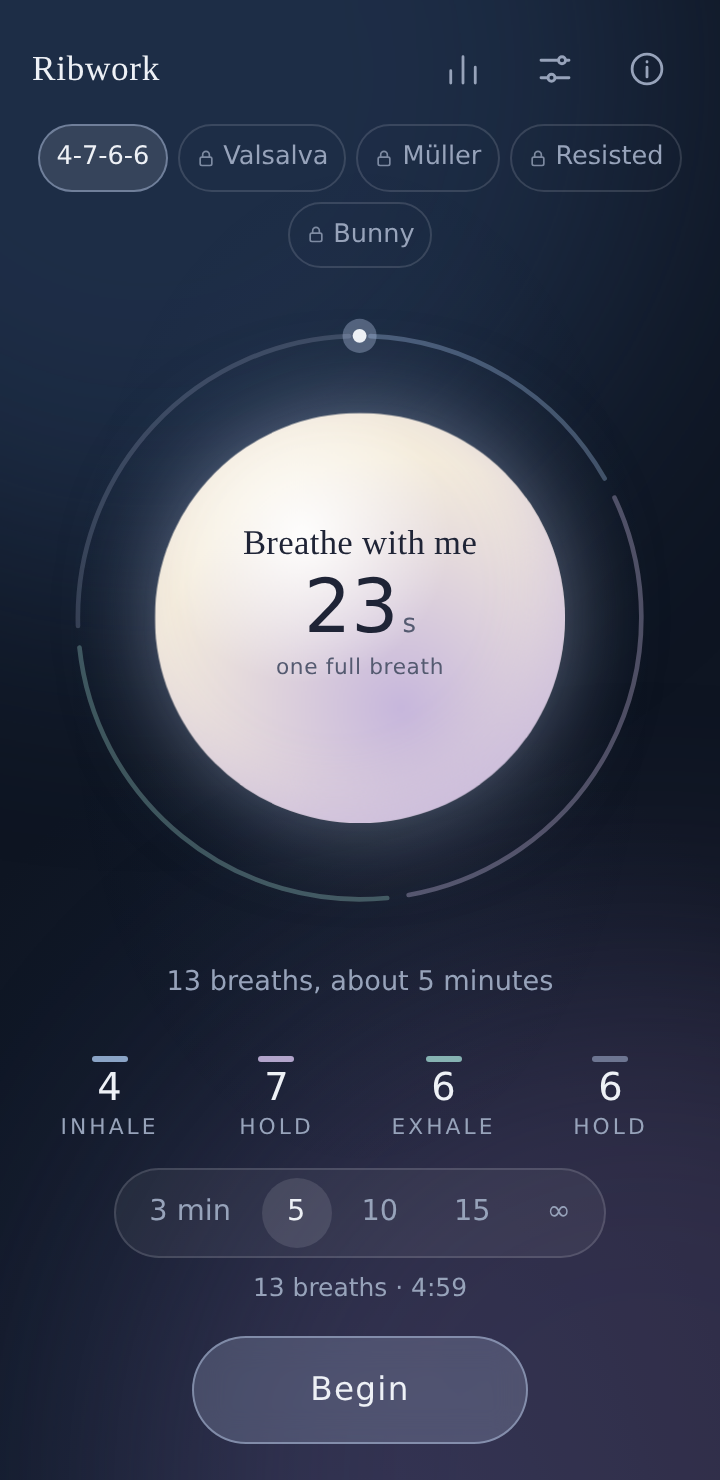
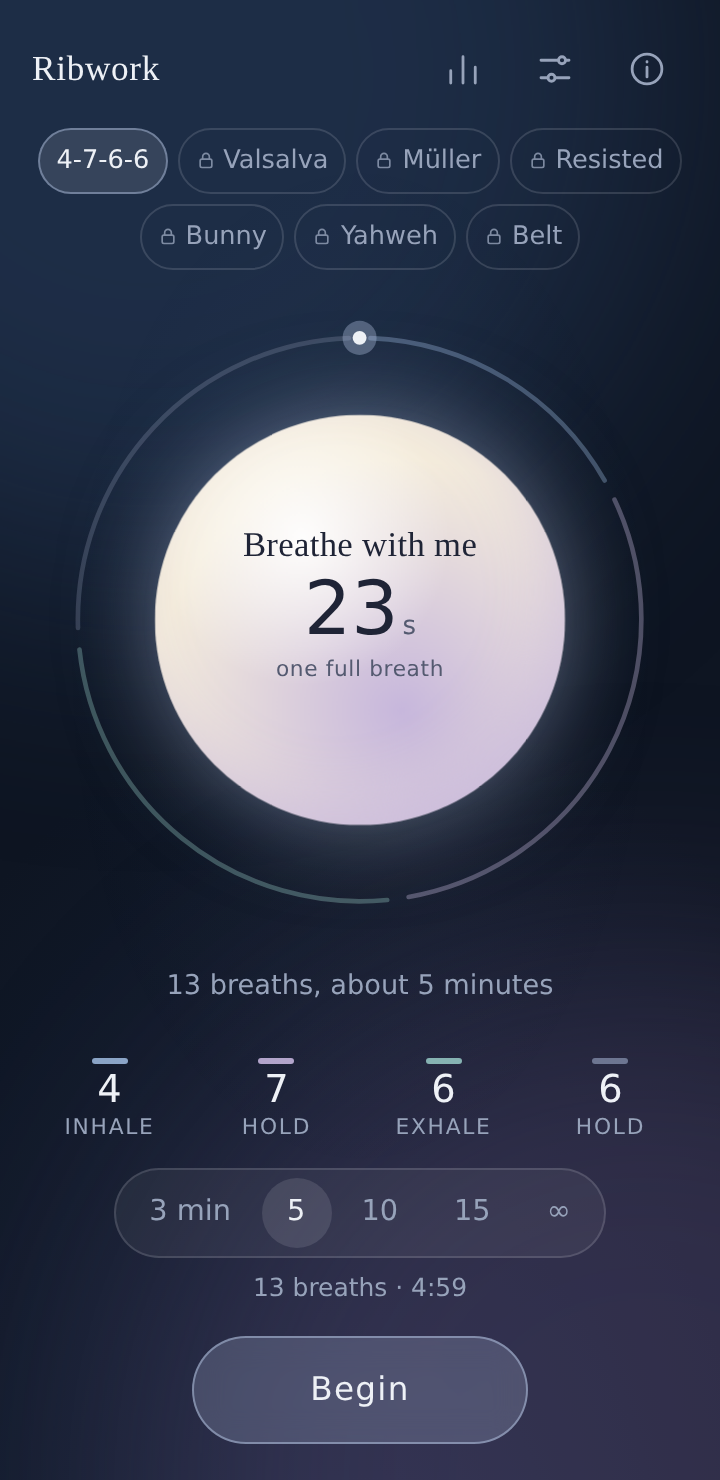
Add breath belt training to the full app
A belt snug around the lower ribs, then four moves of three breaths
each (belt breaths, arm raises, alternating twists, alternating side
reaches), 1-5 rounds. The ring and legend are coloured by move and the
meta line names the current move. Legend labels centre and tighten so
four moves fit on short phones.

Claude-Session: https://claude.ai/code/session_01AU9giQamNVHAvDZbgnuzeV

diff --git a/breathe/index.html b/breathe/index.html
@@ -201,7 +201,8 @@
     color: var(--muted);
   }
   .legend li b { font-weight: 500; font-size: 1.2rem; color: var(--ink); font-variant-numeric: tabular-nums; line-height: 1.1; }
-  .legend li span { font-size: 0.68rem; letter-spacing: 0.14em; text-transform: uppercase; }
+  .legend li span { font-size: 0.68rem; letter-spacing: 0.14em; text-transform: uppercase; text-align: center; line-height: 1.3; }
+  .legend[style*="--n: 4"] li span { letter-spacing: 0.08em; }
   .legend li i { width: 18px; height: 3px; border-radius: 2px; opacity: .8; }
   .legend li i { background: var(--c); }
   .legend li.on { background: var(--glass); color: var(--ink); }
@@ -369,10 +370,11 @@
     .ex-btn { padding: 6px 8px; font-size: 0.8rem; }
   }
   @media (max-height: 700px) {
-    .legend li { padding: 5px 4px; }
+    .legend li { padding: 3px 4px; }
+    .legend li span { line-height: 1.15; }
     .legend li i { display: none; }
     main { gap: 6px; }
-    .stage { width: min(86vw, 42vh, 420px); }
+    .stage { width: min(86vw, 41vh, 420px); }
   }
   @media (prefers-reduced-motion: reduce) {
     .cloud { animation: none; }
@@ -413,6 +415,7 @@
       <button class="ex-btn" type="button" data-ex="resisted"><svg viewBox="0 0 24 24" fill="none" stroke="currentColor" stroke-width="2" stroke-linecap="round"><rect x="5" y="11" width="14" height="10" rx="2"/><path d="M8 11V8a4 4 0 0 1 8 0v3"/></svg>Resisted</button>
       <button class="ex-btn" type="button" data-ex="bunny"><svg viewBox="0 0 24 24" fill="none" stroke="currentColor" stroke-width="2" stroke-linecap="round"><rect x="5" y="11" width="14" height="10" rx="2"/><path d="M8 11V8a4 4 0 0 1 8 0v3"/></svg>Bunny</button>
       <button class="ex-btn" type="button" data-ex="yahweh"><svg viewBox="0 0 24 24" fill="none" stroke="currentColor" stroke-width="2" stroke-linecap="round"><rect x="5" y="11" width="14" height="10" rx="2"/><path d="M8 11V8a4 4 0 0 1 8 0v3"/></svg>Yahweh</button>
+      <button class="ex-btn" type="button" data-ex="belt"><svg viewBox="0 0 24 24" fill="none" stroke="currentColor" stroke-width="2" stroke-linecap="round"><rect x="5" y="11" width="14" height="10" rx="2"/><path d="M8 11V8a4 4 0 0 1 8 0v3"/></svg>Belt</button>
     </div>
 
     <div class="stage" id="stage" role="button" tabindex="0" aria-label="Start breathing session">
@@ -602,7 +605,7 @@
     <p><kbd>Space</kbd> start or pause · <kbd>Esc</kbd> end · <kbd>S</kbd> settings</p>
 
     <h3>Full app</h3>
-    <p>A one-time unlock adds guided Valsalva and Müller maneuvers, with adjustable effort and recovery times, resisted breathing (pursed-lip, straw, or with a breathing trainer), bunny breathing, and the Yahweh breath prayer. The safety notes for each stay free to read: pick one above and tap <b>i</b>.</p>
+    <p>A one-time unlock adds guided Valsalva and Müller maneuvers, with adjustable effort and recovery times, resisted breathing (pursed-lip, straw, or with a breathing trainer), bunny breathing, the Yahweh breath prayer, and breath belt training. The safety notes for each stay free to read: pick one above and tap <b>i</b>.</p>
 
     <h3>Privacy</h3>
     <p>No account, no ads, no analytics. Everything runs on your device, and your session history stays in this browser. Purchases go through Google Play; the app only learns whether you own the unlock. Once opened, it works offline and can be added to your home screen. <a href="privacy.html" style="color: var(--accent)">Privacy policy</a></p>
@@ -627,6 +630,7 @@
       <li><svg viewBox="0 0 24 24" fill="none" stroke="currentColor" stroke-width="1.8" stroke-linecap="round" stroke-linejoin="round"><path d="M5 12.5l4.5 4.5L19 7.5"/></svg><div><b>Resisted breathing</b><small>Pursed-lip, straw, or a 30-breath set with a breathing trainer</small></div></li>
       <li><svg viewBox="0 0 24 24" fill="none" stroke="currentColor" stroke-width="1.8" stroke-linecap="round" stroke-linejoin="round"><path d="M5 12.5l4.5 4.5L19 7.5"/></svg><div><b>Bunny breathing</b><small>Three quick sniffs in, one long breath out</small></div></li>
       <li><svg viewBox="0 0 24 24" fill="none" stroke="currentColor" stroke-width="1.8" stroke-linecap="round" stroke-linejoin="round"><path d="M5 12.5l4.5 4.5L19 7.5"/></svg><div><b>Yahweh breath prayer</b><small>Breathe in “Yah”, breathe out “weh”, slowly</small></div></li>
+      <li><svg viewBox="0 0 24 24" fill="none" stroke="currentColor" stroke-width="1.8" stroke-linecap="round" stroke-linejoin="round"><path d="M5 12.5l4.5 4.5L19 7.5"/></svg><div><b>Breath belt</b><small>A belt around your ribs, with arm raises, twists and side reaches</small></div></li>
       <li><svg viewBox="0 0 24 24" fill="none" stroke="currentColor" stroke-width="1.8" stroke-linecap="round" stroke-linejoin="round"><path d="M5 12.5l4.5 4.5L19 7.5"/></svg><div><b>Every exercise added later</b><small>Included, at no extra cost</small></div></li>
     </ul>
     <button class="primary" type="button" id="btn-buy">Unlock full app</button>
@@ -832,6 +836,46 @@
       foot: 'This app guides timing only and is not medical advice.',
       ack: "I'll breathe gently and stop if I feel lightheaded.",
     },
+    belt: {
+      name: 'Belt', title: 'breath belt training', tag: 'Belt', unit: ['round', 'rounds'], noAck: true,
+      idle: ['Belt', 'four moves, three breaths each'],
+      lead: { d: 10, word: 'Belt on', hint: 'snug around your lower ribs', say: 'Wrap the belt snugly around your lower ribs.' },
+      doneNote: 'Loosen the belt and take a few easy breaths.',
+      phases: () => {
+        const moves = [
+          { group: 'Belt breaths', breaths: (n) => [
+            { word: 'Breathe in', hint: 'push the sides and back into the belt', say: 'Breathe into the belt' },
+            { word: 'Breathe out', hint: 'keep a little tension in the belt', say: 'Breathe out' }] },
+          { group: 'Arm raises', breaths: (n) => [
+            { word: 'Raise arms', hint: 'breathe into the belt as they rise', say: 'Raise your arms' },
+            { word: 'Lower', hint: 'ribs soften down, belt stays snug', say: 'Lower' }] },
+          { group: 'Twists', breaths: (n) => [
+            { word: 'Breathe in', hint: 'face forward, widen into the belt', say: 'Breathe in' },
+            { word: n % 2 ? 'Twist left' : 'Twist right', hint: 'rotate as you breathe out', say: n % 2 ? 'Twist left' : 'Twist right' }] },
+          { group: 'Side reaches', breaths: (n) => [
+            { word: n % 2 ? 'Reach left' : 'Reach right', hint: `${n % 2 ? 'left' : 'right'} arm up, breathe into those ribs`, say: n % 2 ? 'Reach left' : 'Reach right' },
+            { word: 'Return', hint: 'arm down, back to center', say: 'Return' }] },
+        ];
+        const out = [];
+        moves.forEach((m, g) => {
+          for (let n = 0; n < 3; n++) {
+            const [a, b] = m.breaths(n);
+            out.push({ k: 'in', vis: 'rise', d: 4, label: m.group, group: g, ...a });
+            out.push({ k: 'out', vis: 'fall', d: 6, label: m.group, group: g, ...b });
+          }
+        });
+        return out;
+      },
+      about: `<p>A belt around your lower ribs gives your breath something to push against, so you can feel whether your ribs widen to the sides and back, not just the chest and belly. Moving your arms and trunk while you keep breathing into the belt teaches your ribcage to expand in every position, and keeping gentle tension on the belt as you breathe out trains your midline.</p>
+        <h3>Set up</h3>
+        <ul><li>Use a soft belt, a yoga strap or a resistance band.</li><li>Wrap it around your lower ribs, just below the chest, snug but not tight. You should be able to slide a flat hand under it.</li><li>Stand, or sit tall on a chair without leaning back.</li></ul>
+        <h3>The moves, three breaths each</h3>
+        <ul><li><b>Belt breaths:</b> breathe in and push the sides and back of your ribs into the belt. Breathe out and keep a little tension in it.</li><li><b>Arm raises:</b> raise both arms overhead as you breathe in, lower them as you breathe out.</li><li><b>Twists:</b> breathe in facing forward, breathe out as you rotate, alternating right and left.</li><li><b>Side reaches:</b> reach one arm up and breathe into those ribs, return as you breathe out. Alternate sides.</li></ul>`,
+      warn: `<h3>Go easy</h3>
+      <p>Keep the belt snug, never tight enough to restrict your breathing. Move slowly and only as far as feels comfortable. Skip the twists and side reaches if you have back pain or a recent back, rib or abdominal injury or surgery, and stop if you feel pain or dizziness.</p>`,
+      foot: 'This app guides timing only and is not medical advice.',
+      ack: "I'll keep the belt comfortable and stop if anything hurts.",
+    },
   };
 
   const SMIN = 0.7, SMAX = 1, SMID = 0.85;
@@ -879,22 +923,38 @@
       const path = document.createElementNS('http://www.w3.org/2000/svg', 'path');
       path.setAttribute('d', `M${x0.toFixed(2)} ${y0.toFixed(2)} A${R} ${R} 0 ${a1 - a0 > 180 ? 1 : 0} 1 ${x1.toFixed(2)} ${y1.toFixed(2)}`);
       path.setAttribute('class', 'seg'); path.dataset.vis = p.vis;
+      if (p.group != null) path.style.setProperty('--c', GROUP_COLORS[p.group % 4]);
       el.segs.appendChild(path);
     });
     el.legend.innerHTML = '';
-    el.legend.style.setProperty('--n', P.ph.length);
-    P.ph.forEach((p) => {
-      const li = document.createElement('li');
-      li.dataset.vis = p.vis;
-      li.innerHTML = `<i></i><b>${p.d}</b><span>${p.label}</span>`;
-      el.legend.appendChild(li);
-    });
+    if (P.ph[0].group != null) {
+      // One legend item per move, showing its breath count.
+      const groups = [];
+      P.ph.forEach((p) => { groups[p.group] = groups[p.group] || { label: p.label, n: 0 }; if (p.k === 'in') groups[p.group].n++; });
+      el.legend.style.setProperty('--n', groups.length);
+      groups.forEach((g, i) => {
+        const li = document.createElement('li');
+        li.style.setProperty('--c', GROUP_COLORS[i % 4]);
+        li.innerHTML = `<i></i><b>${g.n}×</b><span>${g.label}</span>`;
+        el.legend.appendChild(li);
+      });
+    } else {
+      el.legend.style.setProperty('--n', P.ph.length);
+      P.ph.forEach((p) => {
+        const li = document.createElement('li');
+        li.dataset.vis = p.vis;
+        li.innerHTML = `<i></i><b>${p.d}</b><span>${p.label}</span>`;
+        el.legend.appendChild(li);
+      });
+    }
     el.brandTag.textContent = P.ex.tag;
   }
   function lightPhase(i) {
     [...el.segs.children].forEach((s, j) => s.classList.toggle('on', j === i));
-    [...el.legend.children].forEach((s, j) => s.classList.toggle('on', j === i));
+    const li = i >= 0 && P.ph[i].group != null ? P.ph[i].group : i;
+    [...el.legend.children].forEach((s, j) => s.classList.toggle('on', j === li));
   }
+  const GROUP_COLORS = ['var(--seg0)', 'var(--seg1)', 'var(--seg2)', 'var(--strain)'];
 
   // ---------- Session state ----------
   const S = { status: 'idle', startPerf: 0, pausedAt: 0, pausedTotal: 0, cycles: Infinity, lastKey: null, leadFrom: 0.8, idleScale: 0.8 };
@@ -1403,6 +1463,7 @@
   function durNote() {
     const c = cyclesFor();
     if (isMinutes()) el.durNote.textContent = isFinite(c) ? `${c} breaths · ${fmt(c * P.cycle)}` : 'Open-ended · end whenever you like';
+    else if (P.id === 'belt') el.durNote.textContent = `${c} ${plural(c)} of 4 moves · about ${fmt(P.lead + c * P.cycle)}`;
     else if (P.id === 'resisted') el.durNote.textContent = `${c} breaths, the standard trainer set · about ${fmt(P.lead + c * P.cycle)}`;
     else {
       const effort = P.ph.find((p) => p.ticks);
@@ -1472,6 +1533,7 @@
     const unit = P.ex.unit[0].replace(/^./, (c) => c.toUpperCase());
     let meta;
     if (st.lead) meta = isFinite(S.cycles) ? `${S.cycles} ${plural(S.cycles)} ahead` : 'Open-ended';
+    else if (P.ph[st.i].group != null) meta = `${P.ph[st.i].label} · ${unit.toLowerCase()} ${st.cyc + 1} of ${S.cycles} · ${fmt(totalSec() - sec)} left`;
     else if (isFinite(S.cycles)) meta = `${unit} ${st.cyc + 1} of ${S.cycles} · ${fmt(totalSec() - sec)} left`;
     else meta = `${unit} ${st.cyc + 1} · ${fmt(sec - P.lead)}`;
     setText(word, count, hint, meta);

diff --git a/breathe/privacy.html b/breathe/privacy.html
@@ -25,10 +25,10 @@
 <body>
 
 <h1>Privacy Policy for Ribwork</h1>
-<p class="updated">Last updated: September 26, 2026</p>
+<p class="updated">Last updated: September 27, 2026</p>
 
 <h2>Overview</h2>
-<p>Ribwork ("the App") is a guided breathing app offering 4-7-6-6 breathing and, with a one-time unlock, guided Valsalva and Müller maneuvers, resisted breathing, bunny breathing and the Yahweh breath prayer. This Privacy Policy explains how the App handles user data.</p>
+<p>Ribwork ("the App") is a guided breathing app offering 4-7-6-6 breathing and, with a one-time unlock, guided Valsalva and Müller maneuvers, resisted breathing, bunny breathing, the Yahweh breath prayer and breath belt training. This Privacy Policy explains how the App handles user data.</p>
 
 <h2>Data Collection</h2>
 <p><strong>The App does not collect, transmit, or share any personal data with the developer or any third party.</strong></p>
@@ -51,7 +51,7 @@
 <p>The App loads its fonts from Google Fonts the first time it opens and then works offline. Google Fonts may receive your IP address as part of that request, under Google's Privacy Policy.</p>
 
 <h2>Health Information</h2>
-<p>The App does not ask for or record any health information. The Valsalva and Müller maneuvers, resisted breathing, bunny breathing and Yahweh breath prayer exercises are guided timers only and are not medical advice.</p>
+<p>The App does not ask for or record any health information. The Valsalva and Müller maneuvers, resisted breathing, bunny breathing, Yahweh breath prayer and breath belt exercises are guided timers only and are not medical advice.</p>
 
 <h2>Children's Privacy</h2>
 <p>The App does not knowingly collect any information from anyone, including children under 13, because it does not collect personal information from anyone.</p>

diff --git a/breathe/sw.js b/breathe/sw.js
@@ -1,5 +1,5 @@
 // Offline support: precache the app shell, cache Google Fonts on first use.
-const CACHE = 'stillwater-v8';
+const CACHE = 'stillwater-v9';
 const SHELL = ['./', './index.html', './manifest.webmanifest', './icon.svg', './icon-192.png', './icon-512.png', './icon-180.png', './privacy.html'];
 
 self.addEventListener('install', (e) => {

diff --git a/breathe/store-listing.md b/breathe/store-listing.md
@@ -49,6 +49,8 @@ brand, Ribwork, stays as the home-screen label and opens the short description.
       refocus fast
     • Yahweh breath prayer: breathe in "Yah", breathe out "weh", a slow,
       contemplative Christian breath prayer taught by Richard Rohr
+    • Breath belt: wrap a belt around your lower ribs and breathe into it through
+      arm raises, twists and side reaches, for ribcage expansion and midline control
     • Choose your rounds and recovery time
     • Every exercise added later, at no extra cost
     Clear safety notes come with every exercise and are free to read.
